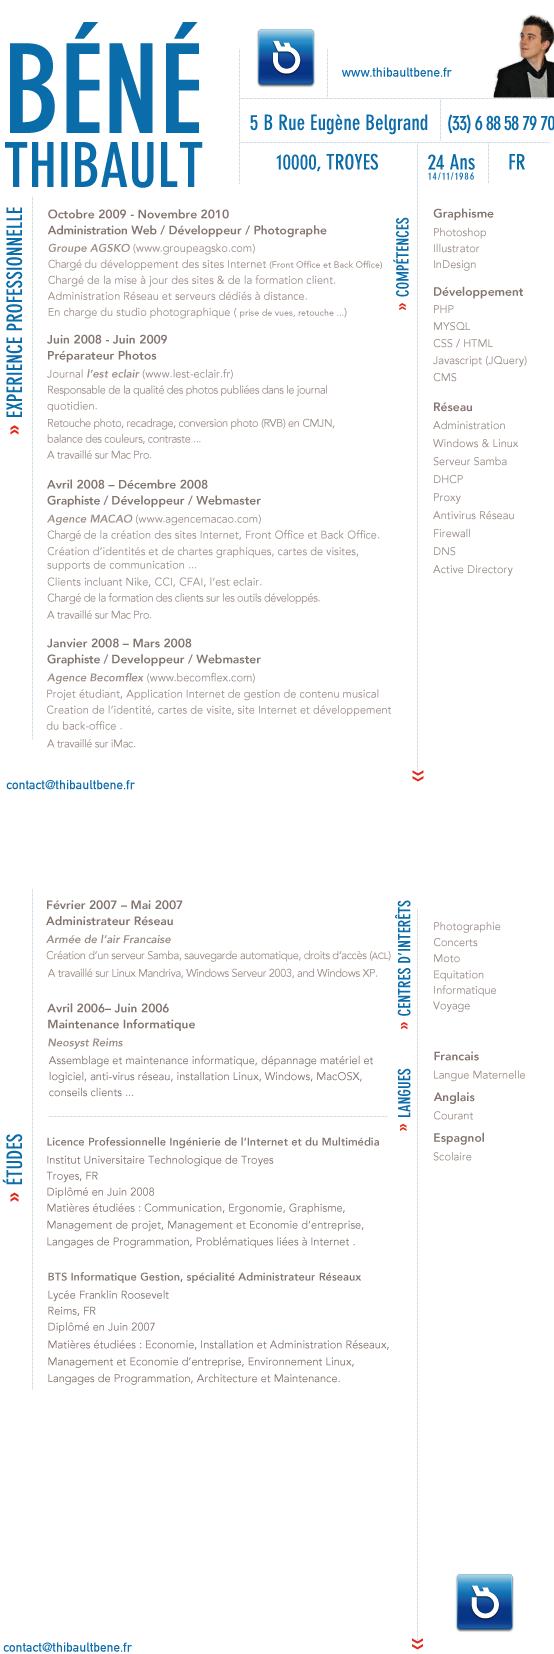
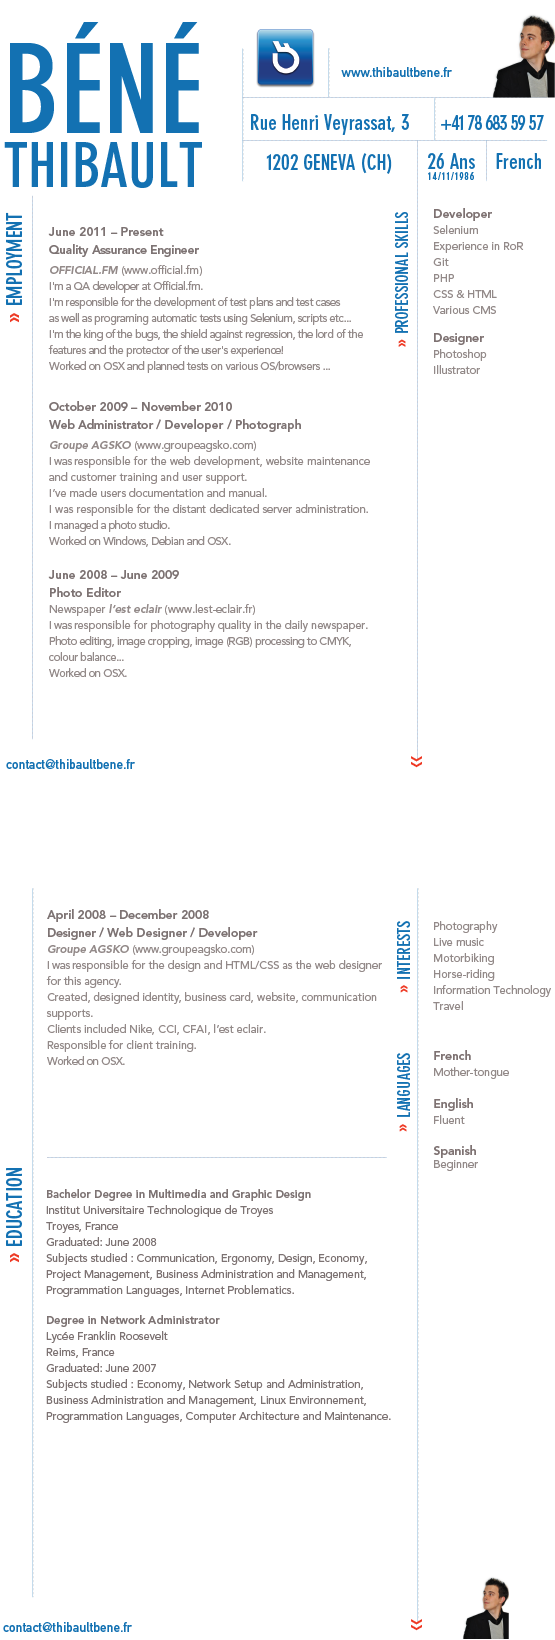
quick update

diff --git a/index.html b/index.html
@@ -2,15 +2,15 @@
 <!DOCTYPE html PUBLIC "-//W3C//DTD XHTML 1.0 Strict//EN" "http://www.w3.org/TR/xhtml1/DTD/xhtml1-strict.dtd">
 <html xmlns="http://www.w3.org/1999/xhtml" xml:lang="fr" lang="fr">
 <head>
-	<title>Thibault Béné | Travaux & Créations ...</title>
+	<title>Thibault Béné | Personal Website ...</title>
 	<meta http-equiv="Content-type" content="text/html; charset=UTF-8" />
 	<meta name="verify-v1" content="/+d4VH41iktNlfjU9dZsdbYljic8S/Iwv6KePBHtqSY=" />
 	<link href="css/mainstyles.css" rel="stylesheet" type="text/css">
   	<link rel="SHORTCUT ICON" href="images/favicon.ico">
 	<meta http-equiv="Content-Language" content="fr" />
 	<meta name="author" content="Béné Thibault" />
-	<meta name="description" content="Thibault Béné | Travaux & Créations">
-	<meta name="keywords" content="Thibault Béné, TBö, T.Bö, Tbo, Travaux , Créations, infographie, web design, print, freelance, Troyes, France, Aube, html, css, développement, content management system, CMS, website, jQuery, Est Eclair, Macao, Becomflex">
+	<meta name="description" content="Thibault Béné | Personal Website">
+	<meta name="keywords" content="Thibault Béné, Est Eclair, Macao, Becomflex, official.fm, QA, Quality Assurance">
 	<script src="js/loader.js" type="text/javascript"></script> 
 	<script src="js/drag.js" type="text/javascript"></script>
 	<script src="js/scripts.js" type="text/javascript"></script>	
@@ -112,7 +112,7 @@
 			<div class="detail_padding" style="border-bottom:1px solid #333;padding-bottom:10px;">
 			<h2>Role</h2>
 			- Graphisme <br>
-			- Développement Php/Ajax Back Office.	
+			- Développement Php/Ajax Back end.	
 			</div>
 		</div>
 		</td>
@@ -145,7 +145,7 @@
 			<div class="detail_padding" style="border-bottom:1px solid #333;padding-bottom:10px;">
 			<h2>Role</h2>
 			- Graphisme <br>
-			- Développement Php/Ajax Back Office.	
+			- Développement Php/Ajax Back end.	
 			</div>
 		</div>
 		</td>
@@ -168,7 +168,7 @@
 			<h1>iPhotographisme</h1>
 			Projet personnel <br /> 
 			Portoflio de mes réalisations photographiques<br />
-			Version Beta <br /><br />
+			Version Beta utilisant Wordpress <br /><br />
 	
 	<a href="http://www.iphotographisme.fr" target="_blank">http://www.iphotographisme.fr</a>
 			</div>
@@ -201,13 +201,15 @@
 			<div class="detail_divider">
 				<div class="detail_padding">
 					<h2>Biographie</h2>
-					Je m'appelle Béné Thibault, j'ai 23 ans.<br />
+					Je m'appelle Thibault Béné, j'ai 26 ans.<br />
 					Issu d'un BTS Informatique de Gestion option Administrateur réseau <br />
 					et d'une licence professionnelle en Ingénierie de l'Internet et du Multimédia, <br />
-					je me suis spécialisé en développement web, mais également en infographie et photographie.
+					Je suis actuellement Quality Assurance, et travail avec des outils tels que le <br />
+					webdriver Ruby de Selenium pour assurer la suite de tests automatiques.<br />
+					J'ai l'habitude de travailler avec la méthode Agile et Scrum.
 							
 			<br /><br /><p>Me contacter :<br />
-				&nbsp;&nbsp;&nbsp; tel. 06 88 58 79 70 <br />
+				&nbsp;&nbsp;&nbsp; tel. +41 78 683 59 57 <br />
 				&nbsp;&nbsp;&nbsp; e. <script language="JavaScript">
 document.write('<a hre'+'f="m'+'ai'+'lto:'+'contact@thibaultbene.fr" style="font-size:14px;">&#101;&#109;&#97;&#105;&#108;&#32;<\/a>');
 </script><br />
